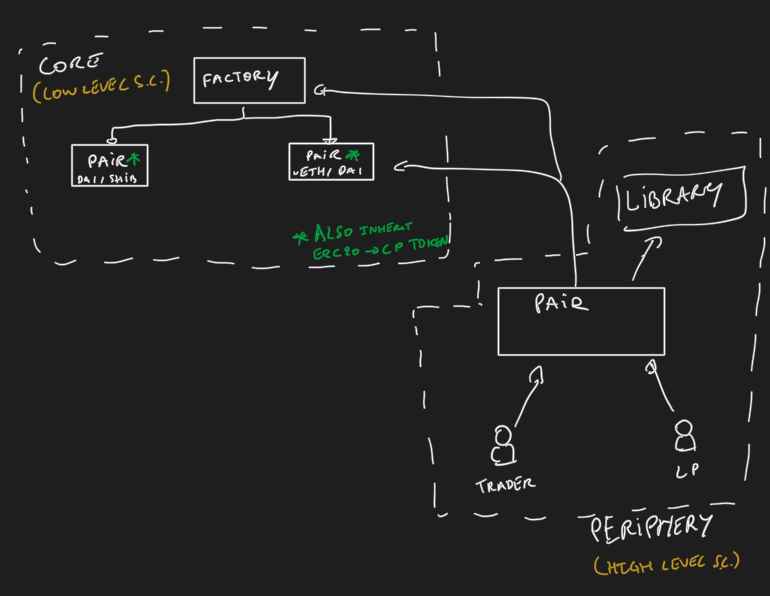
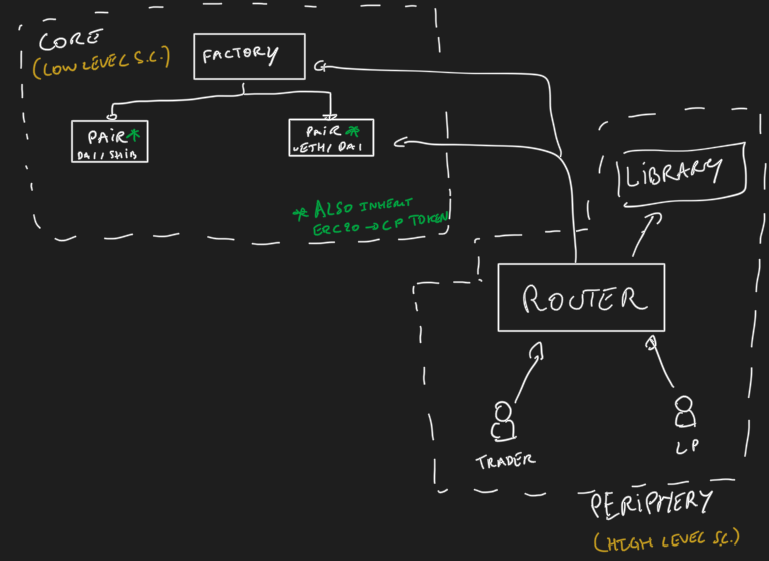
uniswap v3 update

diff --git a/amm/uniswapv3.md b/amm/uniswapv3.md
@@ -2,8 +2,6 @@
 
 Uniswap V3 Protocol was launched on May 5 2021 with improvments to make it more flexible and efficient.
 
-![how uniswap v2 works](../data/amm/uniswapv2/uniswapv2-work.jpeg)
-
 ## Features
 
 To understand the features of v3, we need to understand the flows on v2:
@@ -12,7 +10,11 @@ To understand the features of v3, we need to understand the flows on v2:
 
 * Concentrated liquidity: liquidity providers can choose the price range where they want to provide liquidity. This will reduce the slippage and increase the liquidity in the range where the price is more volatile.
   * Ticks: price ranges is demarcated by evenly distributed discrete ticks. each tick has an index and corresponds to a certain price p(i) = 1.0001^i
-
+* Limit orders: liquidity providers can use the tick as limit orders. If the price is above the tick, the liquidity provider will sell the token and if the price is below the tick, the liquidity provider will buy the token.
+![limit order](../data/amm/uniswapv3/limit-order.png)
+* LP NFT: LP are now NFT due to the uniqueness of their nature (price range). Also the fees are paid to the LP NFT holders and not to the pool.
+* Price Oracle: Uniswap provide an on chain oracle for price by using the tick
+![oracle](../data/amm/uniswapv3/oracle.png)
 ## Who?
 ### Liquidity Providers
 Provide liquidity to the pool and earn fees from swaps.
@@ -22,54 +24,52 @@ Swap ERC20 (can be a simple user or arbitrageur)
 Uniswap is completely permisionless, meaining anyone can create a pool. Project can then list their token on Uniswap and provide liquidity to their own pool.
 
 ## Architecture
-![architecture](../data/amm/uniswapv2/uniswapv2-architecture.png)
+![architecture](../data/amm/uniswapv3/architecture.png)
 
 ## Code
-Package: [uniswap-v2-core](https://github.com/Uniswap/v2-core)
-* UniswapV2Factory.sol: Factory contract to create new pools using CREATE2.
-  * a `bytes32` in assembly will represent the address where the variable is stored. Also bytes32 represent an array of 32 bytes slot. The first slot being the size of the array.
-  * add(bytecode, 32): give the start of the actual bytecode
-  * mload(bytecode): take the 32 bytes which corresponds to the first 32 bytes of the bytes32 = the size of the array.
+Package: [uniswap-v3-core](https://github.com/Uniswap/v3-core)
+* UniswapV3Factory.sol: inheriting from the UniswapV3PoolDeployer.sol, it deploys the pool and stores the address of the pool.
+  * stores a parameters struct transiently in storage and clearing it after deploying
+  * Use a new notation: `new UniswapV3Pool{salt: PUT_SALT)}()` to use create2
 ```
-bytes memory bytecode = type(UniswapV2Pair).creationCode;
-bytes32 salt = keccak256(abi.encodePacked(token0, token1));
-assembly {
-    pair := create2(0, add(bytecode, 32), mload(bytecode), salt)
-}
-IUniswapV2Pair(pair).initialize(token0, token1);
+parameters = Parameters({factory: factory, token0: token0, token1: token1, fee: fee, tickSpacing: tickSpacing});
+pool = address(new UniswapV3Pool{salt: keccak256(abi.encode(token0, token1, fee))}());
+delete parameters;
 ```
-* UniswapV2Pair.sol: Represents the Pair (pool) created by the Factory.
-  * mint: add liquidity to the pool (by minting LP tokens)
-  * burn: remove liquidity from the pool (by burning LP tokens)
-  * swap: swap tokens
-    * this is allowing flashswap as we will optimistically send the token and then execute the calldata. The calldata should send back the token to the pool (with fee - see [doc](https://docs.uniswap.org/protocol/V2/guides/smart-contract-integration/using-flash-swaps)). For calls without calldata, then we will expect to have already the token_in in the pool.
+* UniswapV3Pool.sol: Represents the Pair (pool) created by the Factory.
+  * ticks are stored using a bitmap it corresponds to a map of 2^16 bits. Each bit corresponds to a tick. If the bit is set, it means that the tick is initialized.
+  * accessing the tick is done using the `getTick` function which returns the word position and the bit position starting from the right.
+  * to flip a tick, a mask is used where the bit position is set to 1 (`1 << bitPos`) and the rest are 0. The mask is then XORed with the word to flip the bit.
 
-* UniswapV2ERC20: simple erc20 token implementation (with some utils)
+![architecture](../data/amm/uniswapv3/tick-bitmap.png)
+```
+wordPos = int16(tick >> 8);
+bitPos = uint8(uint24(tick % 256));
+```
+  * 2 structs to store the swap context (as this one is onde iteratively through the ticks map): SwapState and StepState
 
-> Note 1: the Core smart contraft only deal with ERC20. So no native token (ETH -> wETH).
-> Note 2: we first need to send the tokens to the pair contract before calling the functions. The logic is to calculate the difference of balance before and after to understand how much token where sent
+Package: [uniswap-v3-periphery](https://github.com/Uniswap/v3-periphery)
+* ISwapRouter: Router interface to swap tokens
+  * exactInputSingle: swap exact amount of token0 for token1. To use with the struct ExactInputSingleParams
+  * exactOutputSingle: swap min amount of token0 for token1. To use with the struct ExactOutputSingleParams
 
-Package: [uniswap-v2-periphery](https://github.com/Uniswap/v2-periphery)
-* UniswapV2Router02: a bunch of methods to interact with Pair
-  * addLiquidity / addLiquidityETH
-  * swapTokensForExactTokens / swapTokensForExactETH / swapExactTokensForTokens / swapExactETHForTokens
-* UniswapV2Library: library to calculate the price of a pair
-  * getAmountsIn / getAmountsOut (chained call for any number of hops)
-  * getAmountIn / getAmountOut
 
 ## Maths
-Checkout this [youtube video](https://www.youtube.com/watch?v=QNPyFs8Wybk&list=PLO5VPQH6OWdX-Rh7RonjZhOd9pb9zOnHW&index=40) from Solidity Programmer for details explanation of calculations in uniswap v2.
 
+### uniswap v3 math
+![maths](../data/amm/uniswapv3/maths.png)
 ### Simple swap
-![simpleswap](../data/amm/uniswapv2/uniswapv2-simpleswap.png)
-### Slippage
-![slippage](../data/amm/uniswapv2/uniswapv2-slippage.png)
-### Get amount in/out
-![getamountin](../data/amm/uniswapv2/uniswapv2-getamountin.png)
-### Liquidity
-![liquidity](../data/amm/uniswapv2/uniswapv2-liquidity.png)
-### Impermanent loss
-![impermanentloss](../data/amm/uniswapv2/uniswapv2-impermanentloss.png)
+![simple](../data/amm/uniswapv3/swap.png)
+#### Price range
+![pricerange](../data/amm/uniswapv3/price-range.png)
+#### Token Amount
+![token](../data/amm/uniswapv3/token-amount.png)
+#### Liquidity
+![liquidity](../data/amm/uniswapv3/liquidity-amount.png)
+#### Token Amount 2
+![token](../data/amm/uniswapv3/token-amount2.png)
+#### Swap amount
+![swap](../data/amm/uniswapv3/swap.png)
 
 ## Governance
 The Uniswap protocol is governed and upgraded by UNI token holders, using three distinct components; the UNI token, governance module, and Timelock. Together, these contracts allow the community to propose, vote, and implement changes to the uniswap protocol.
@@ -77,7 +77,11 @@ The Uniswap protocol is governed and upgraded by UNI token holders, using three 
 Any addresses with more than 2.5M UNI delegated to it may propose governance actions, which contain finished, executable code. When a proposal is created, the community can cast their votes during a 3 day voting period. If a majority, and at least 4M votes are cast for the proposal, it is queued in the Timelock, and may be executed in a minimum of 2 days.
 
 ## How to use
+* Considering the complexity as a user vs uniswap v2, we can consider building a tool on top of v3 to maximize liquidity for the user by chosing the ranges and shifting them. Slippage might be high when we are setting a small range and on the other side, setting a big range is limiting the profit.
 
 ## Issues/Flows
+* JIT liquidity: https://twitter.com/ChainsightLabs/status/1457958811243778052
 
 ## Resources
+* https://uniswapv3book.com/
+* https://docs.uniswap.org/protocol/concepts/V3-overview/concentrated-liquidity
